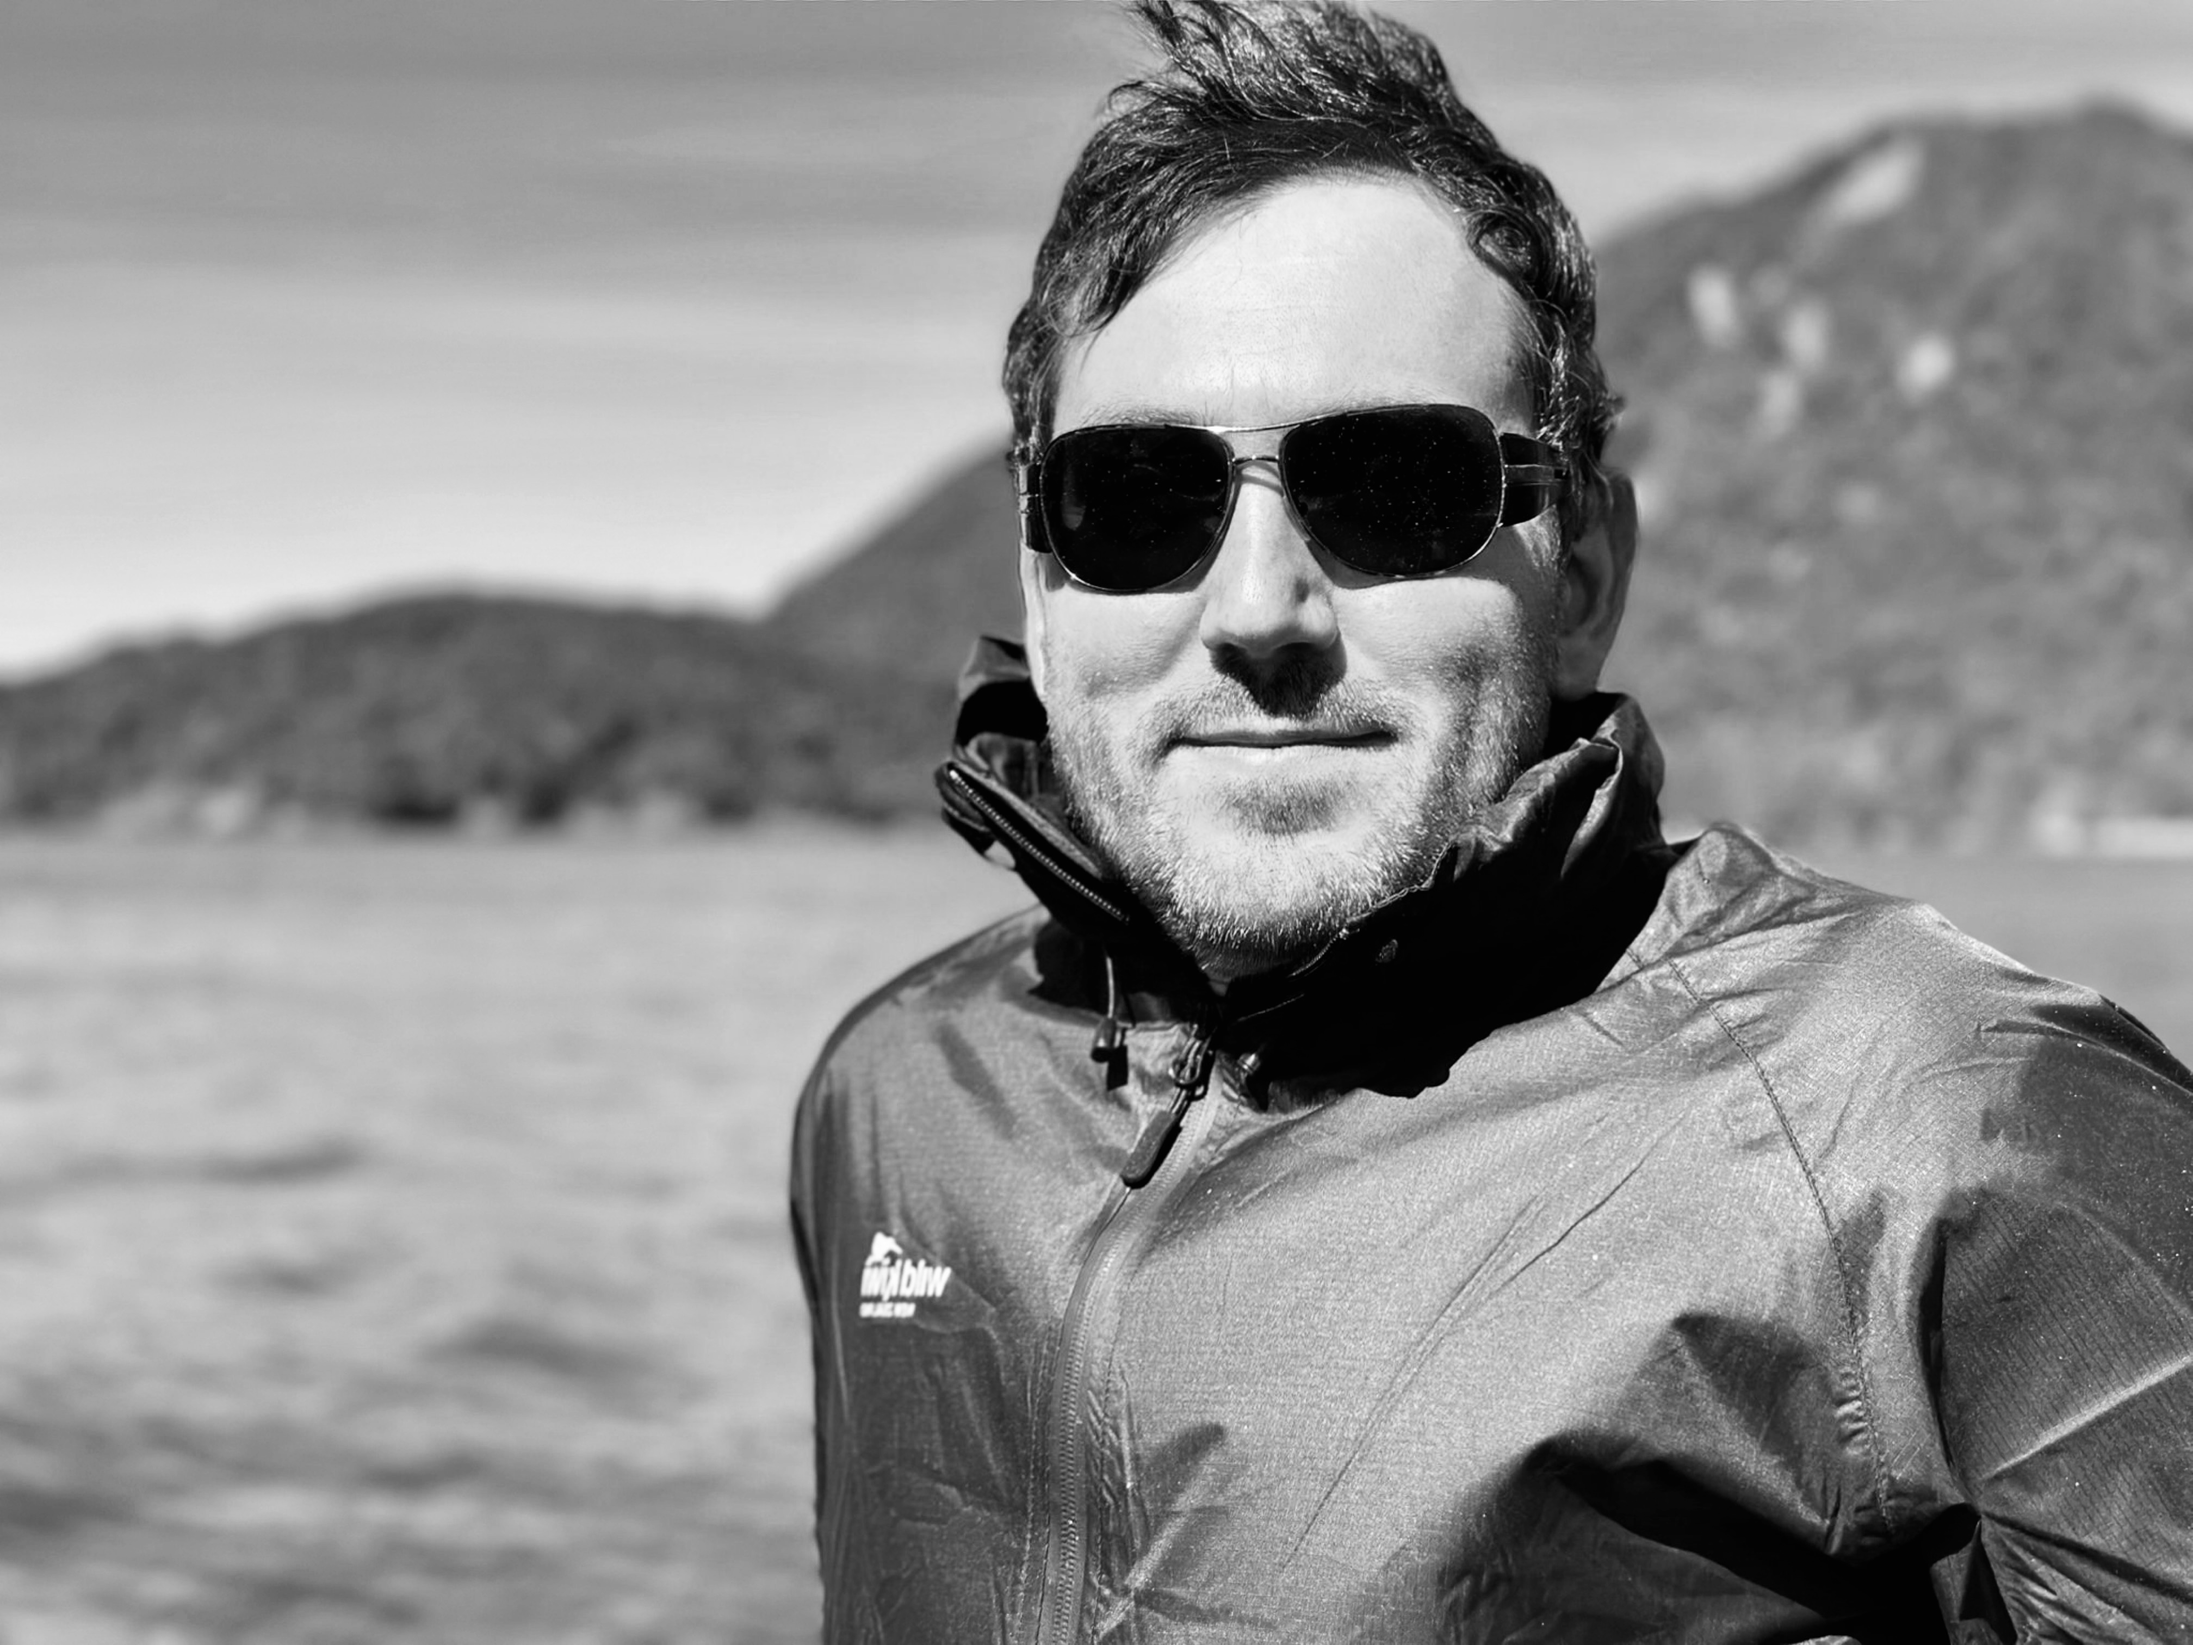
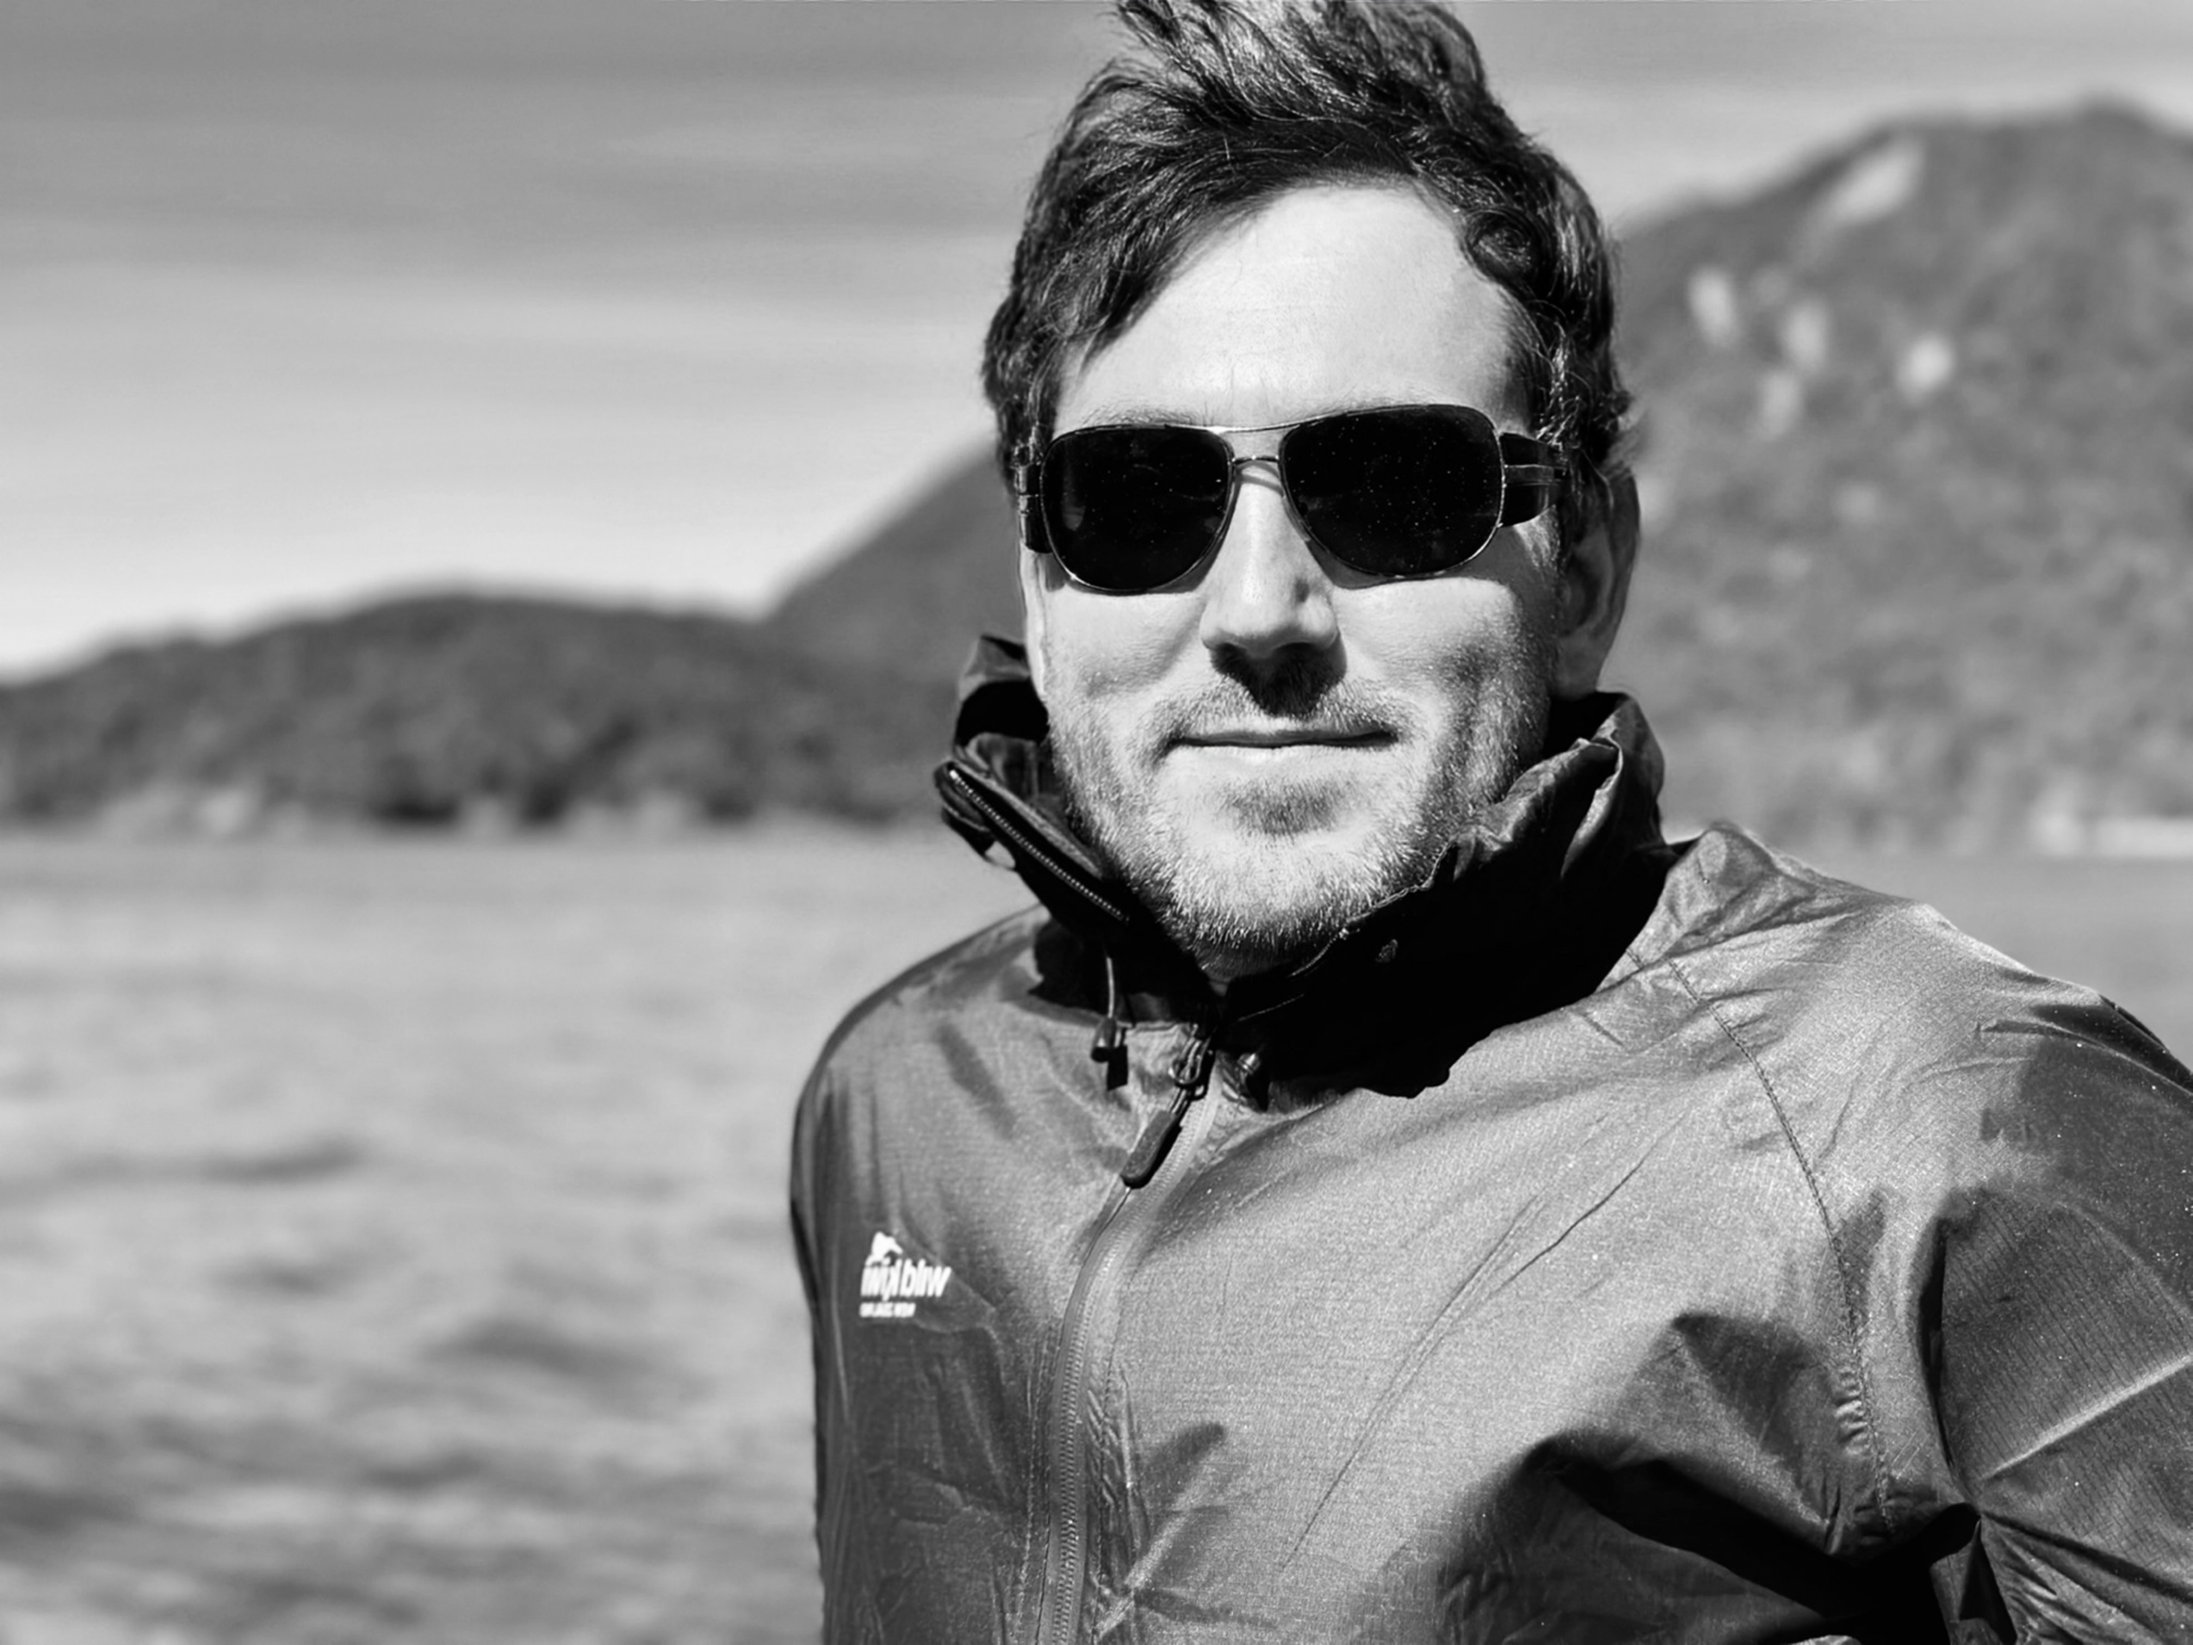
update

Changed region(s): [[0.4375, 0.0, 0.75, 0.3108], [0.6875, 0.3108, 0.7188, 0.3419]]

diff --git a/assets/css/main.css b/assets/css/main.css
@@ -28,7 +28,10 @@ footer, header, hgroup, menu, nav, section {
   display: block; }
 
 body {
-  line-height: 1; }
+  line-height: 1; 
+  margin-top: 0 !important;
+  padding-top: 0 !important;
+}
 
 ol, ul {
   list-style: none; }
@@ -2076,7 +2079,7 @@ button,
   display: -ms-flex;
   display: flex;
   border-bottom: solid 5px #67a4bf;
-  padding: 6em 0 1em 0;
+  padding: 2em 0 1em 0;
   position: relative; }
   #header > * {
     -moz-flex: 1;
